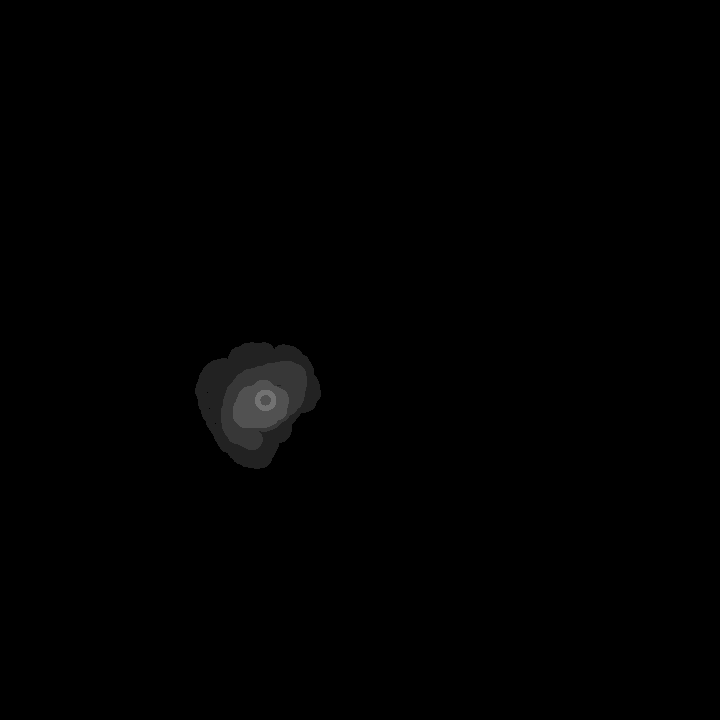
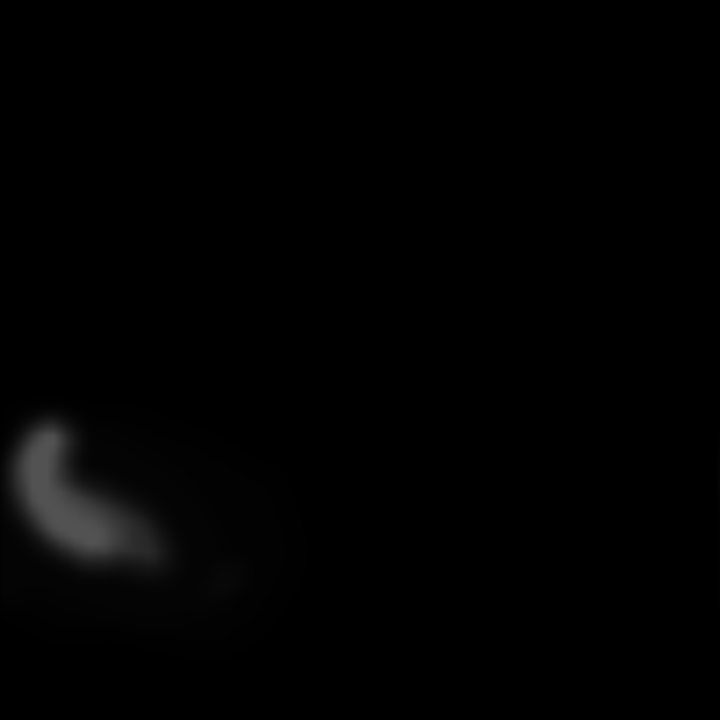
added blur on save

Changed region(s): [[0.0, 0.5806, 0.2444, 0.7944], [0.275, 0.4583, 0.4583, 0.6722]]

diff --git a/Assets/Script/drawingScripts/HeightMapDrawingBoard.cs b/Assets/Script/drawingScripts/HeightMapDrawingBoard.cs
@@ -40,22 +40,8 @@ public class HeightMapDrawingBoard : MonoBehaviour
         pencilMaterial.color = new Color(colorIntensity,colorIntensity,colorIntensity,1.0f);
         print(pencilMaterial.color);
     }
-/*
-        should do this to make the UI more convenient, but I can't find a out-of-box unity way of blurring a 
-                    renderTexture and implementing it myself is overkill
-    public void smoothMap(){
-        //try to use graphics.Blit();
-        RenderTexture rt1 = RenderTexture.GetTemporary(source.width / 4, source.height / 4);
-        RenderTexture rt2 = RenderTexture.GetTemporary(source.width / 4, source.height / 4);
-        Graphics.Blit(source, rt1, 0);
 
-        //  otherwise : 
-        //get tex as array
-        //create a new one
-        //copy the values
-        //smooth them
-        //overwrite former values.
-    }*/
+
     Texture2D toTexture2D(RenderTexture rTex){
         Texture2D tex = new Texture2D(rTex.width, rTex.height, TextureFormat.RGB24, false);
         RenderTexture.active = rTex;
@@ -65,6 +51,8 @@ public class HeightMapDrawingBoard : MonoBehaviour
     }
 
     public void save(){
+        Texture2D tex =Blur(Resize(toTexture2D(map),100,100),5);
+        Graphics.Blit(tex,map);
         byte[] bytes = toTexture2D(map).EncodeToPNG();
         System.IO.File.WriteAllBytes("Assets/Resources/RunTimeImages/HeightMap.png", bytes);
     }
@@ -78,5 +66,60 @@ public class HeightMapDrawingBoard : MonoBehaviour
     }
     public Vector3 LocalPencilPosition(){//for outside use
         return GameObject.Find("Manche").transform.localPosition;
+    }
+
+
+    private Texture2D Blur(Texture2D image, int blurSize){//credits for this function : 
+                        //https://forum.unity.com/threads/contribution-texture2d-blur-in-c.185694/
+        Texture2D blurred = new Texture2D(image.width, image.height);
+     
+        // look at every pixel in the blur rectangle
+        for (int xx = 0; xx < image.width; xx++)
+        {
+            for (int yy = 0; yy < image.height; yy++)
+            {
+                float avgR = 0, avgG = 0, avgB = 0, avgA = 0;
+                int blurPixelCount = 0;
+     
+                // average the color of the red, green and blue for each pixel in the
+                // blur size while making sure you don't go outside the image bounds
+                for (int x = xx; (x < xx + blurSize && x < image.width); x++)
+                {
+                    for (int y = yy; (y < yy + blurSize && y < image.height); y++)
+                    {
+                        Color pixel = image.GetPixel(x, y);
+     
+                        avgR += pixel.r;
+                        avgG += pixel.g;
+                        avgB += pixel.b;
+                        avgA += pixel.a;
+     
+                        blurPixelCount++;
+                    }
+                }
+     
+                avgR = avgR / blurPixelCount;
+                avgG = avgG / blurPixelCount;
+                avgB = avgB / blurPixelCount;
+                avgA = avgA / blurPixelCount;
+     
+                // now that we know the average for the blur size, set each pixel to that color
+                for (int x = xx; x < xx + blurSize && x < image.width; x++)
+                    for (int y = yy; y < yy + blurSize && y < image.height; y++)
+                        blurred.SetPixel(x, y, new Color(avgR, avgG, avgB, avgA));
+            }
+        }
+        blurred.Apply();
+        return blurred;
+    }
+    Texture2D Resize(Texture2D texture2D,int targetX,int targetY){//credits : 
+                     //https://stackoverflow.com/questions/56949217/how-to-resize-a-texture2d-using-height-and-width
+        RenderTexture rt=new RenderTexture(targetX, targetY,24);
+        RenderTexture.active = rt;
+        Graphics.Blit(texture2D,rt);
+        Texture2D result=new Texture2D(targetX,targetY);
+        result.ReadPixels(new Rect(0,0,targetX,targetY),0,0);
+        result.Apply();
+        return result;
     }
 }
